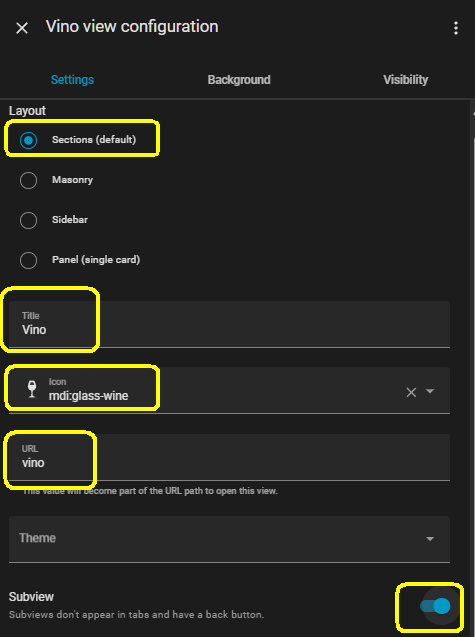
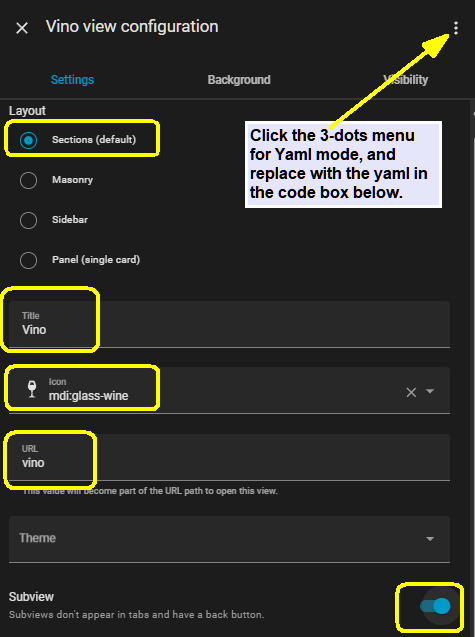
Code Edits

Changed region(s): [[0.5011, 0.1193, 0.9432, 0.3281], [0.8842, 0.0298, 0.9432, 0.0895], [0.8253, 0.0895, 0.8842, 0.1193]]

diff --git a/docs/index.md b/docs/index.md
@@ -297,15 +297,19 @@ This script submits your wine rating to the Wonderful Wino add-on, and thanks yo
 
 This subview dashboard provides these functions:
 
-1. Sortable Wine List in a ToDo list card
+1.  Sortable Wine List in a ToDo list card
 2. The ability to "consume" a wine by clicking it on the list 
-3. Wine Rating interface for ToDo consumed wines
-4. Badge with the total of “Unique Wines” on hand.
+3.  Wine Rating interface for ToDo consumed wines
+4.  Badge with the total of “Unique Wines” on hand.
 5. One click access to the full Wonderful Wino GUI
 
-The Dashboard subview yaml is below. I suggest that you start with it to get a feel of what  Make a new Dashboard Subview accessible from one of your current dashboards then paste the code into it. From there you can adjust it as needed. Once you see how they operate, you certainly can move the cards to anywhere you would like.
+**Create an empty Subview Dashboard called "Vino":**
 
-Take particular note of the  **INGRESS**  lines in the yaml as you will need to edit them if you want to use the function. It permits direct access to the main Wonderful Wino GUI by tapping the Header of the ToDo list. I will provide info on how to find your  **INGRESS SLUG**  below the Dashboard yaml. You will need to replace the 8 X’s with your specific 8 characters to make the “navigate to GUI” feature work.
+![Subview](https://raw.githubusercontent.com/FrankJaco/homeassistant-wwino-addon/main/resources/subview.png)
+
+**Paste the dashboard yaml in the code box below into the yaml window of the Vino subview you just created.**
+
+Take particular note of the  **INGRESS**  lines in the yaml as you will need to edit them if you want to use the function. It permits direct access to the main Wonderful Wino GUI by tapping the Header of the ToDo list. Info on how to find your  **INGRESS SLUG**  is below the Dashboard yaml. You will need to replace the 8 X’s with your specific 8 characters to make the “navigate to GUI” feature work.
 
 ```
 type: sections
@@ -502,7 +506,7 @@ badges:
     color: deep-purple
     name: Unique Wine Count
 cards: []
-theme: Google Dark Theme Condensed
+
 
 ```
 
